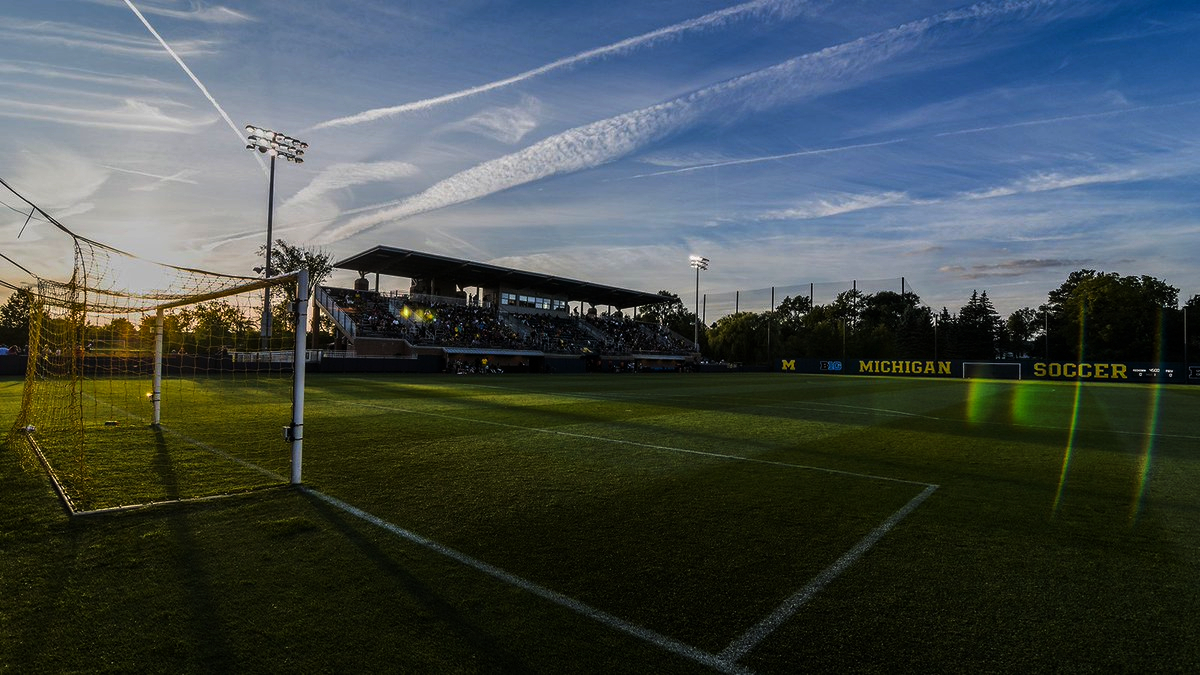
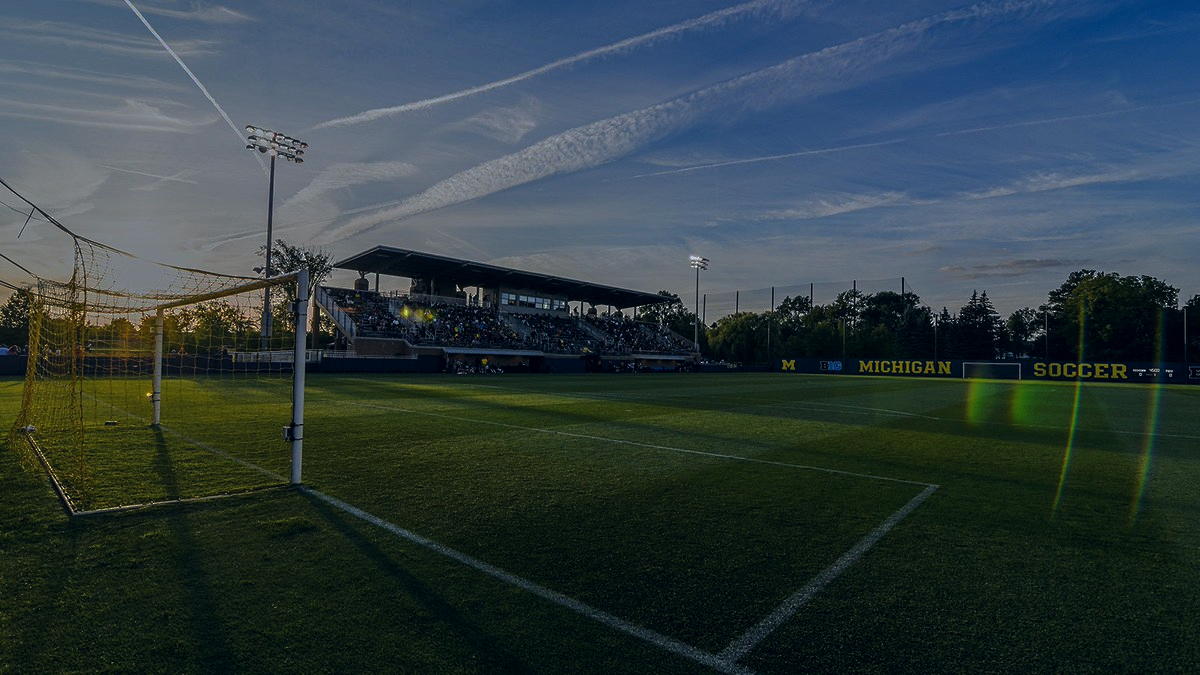
Title

diff --git a/index.html b/index.html
@@ -48,20 +48,13 @@
 <section class="articles-white">
   <div class="container">
     <img src="img/index/home.jpg" class="img-index">
-    <div class="centered">
-      <div class="h4">
-        <h class="underline-small" style="font-weight:bold; text-shadow: 1px 1px #182436;">MICHGIAN SOCCER SOCIETY</h>
-        <div class="centerd">
-          <h1 style="font-weight:bold; text-shadow: 1px 1px #182436;">the University of Michigan’s premier student run soccer organization</h1>
-        </div>
-      </div>
-    </div>
+    
   </div>
 </section>
 
 <section class="articles-white">
   <div class="padding-index" style="line-height: 1.2;">
-    <div class="h6"><h7>Welcome to MSS</h7></div>
+    <h7>Welcome to MSS</h7>
       <br></br>
       <p8>We are a proudly run student organization at the University of Michigan passionate about soccer and analytics. Our mission is to allow members to combine their passions for soccer and statistics through weekly meetings, presentations, group discussions, and hands-on projects. Above all, we want to create a platform for students to engage with the evolving industry of soccer and data analytics.
           Check back to this website regularly to find new articles on analytics,</p8>

diff --git a/css/style.css b/css/style.css
@@ -137,7 +137,21 @@ p8 {
   width: 100%;
   height: 85%;
   opacity: 0.85;
+}
 
+@media screen and (max-width: 900px) {
+  .img-index {
+    width: 100%;
+    height: 75%;
+    opacity: 0.85;
+  }
+
+  h7 {
+    font-size: 30px;
+    text-align: left;
+    color: #182436;
+    word-wrap: break-word;
+  }
 }
 
 .index-container {
@@ -146,13 +160,7 @@ p8 {
   color: white;
 }
 
-.centered {
-  position: absolute;
-  top: 50%;
-  left: 50%;
-  transform: translate(-50%, -50%);
-}
-
+ 
 .h4 {
   font-size: 50px;
   font-weight: bold;
